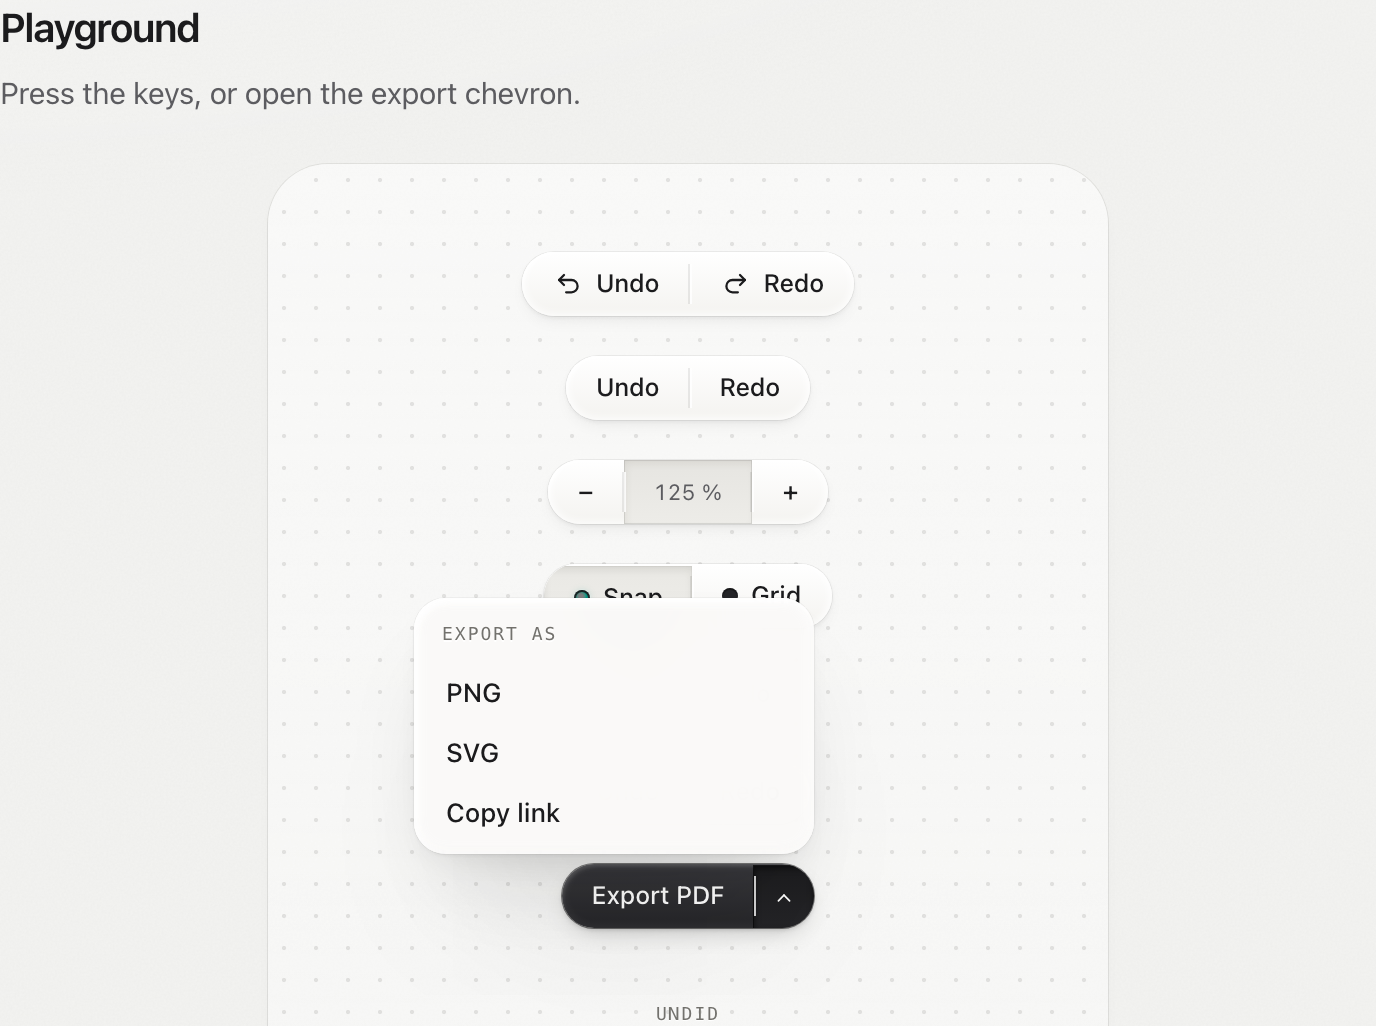
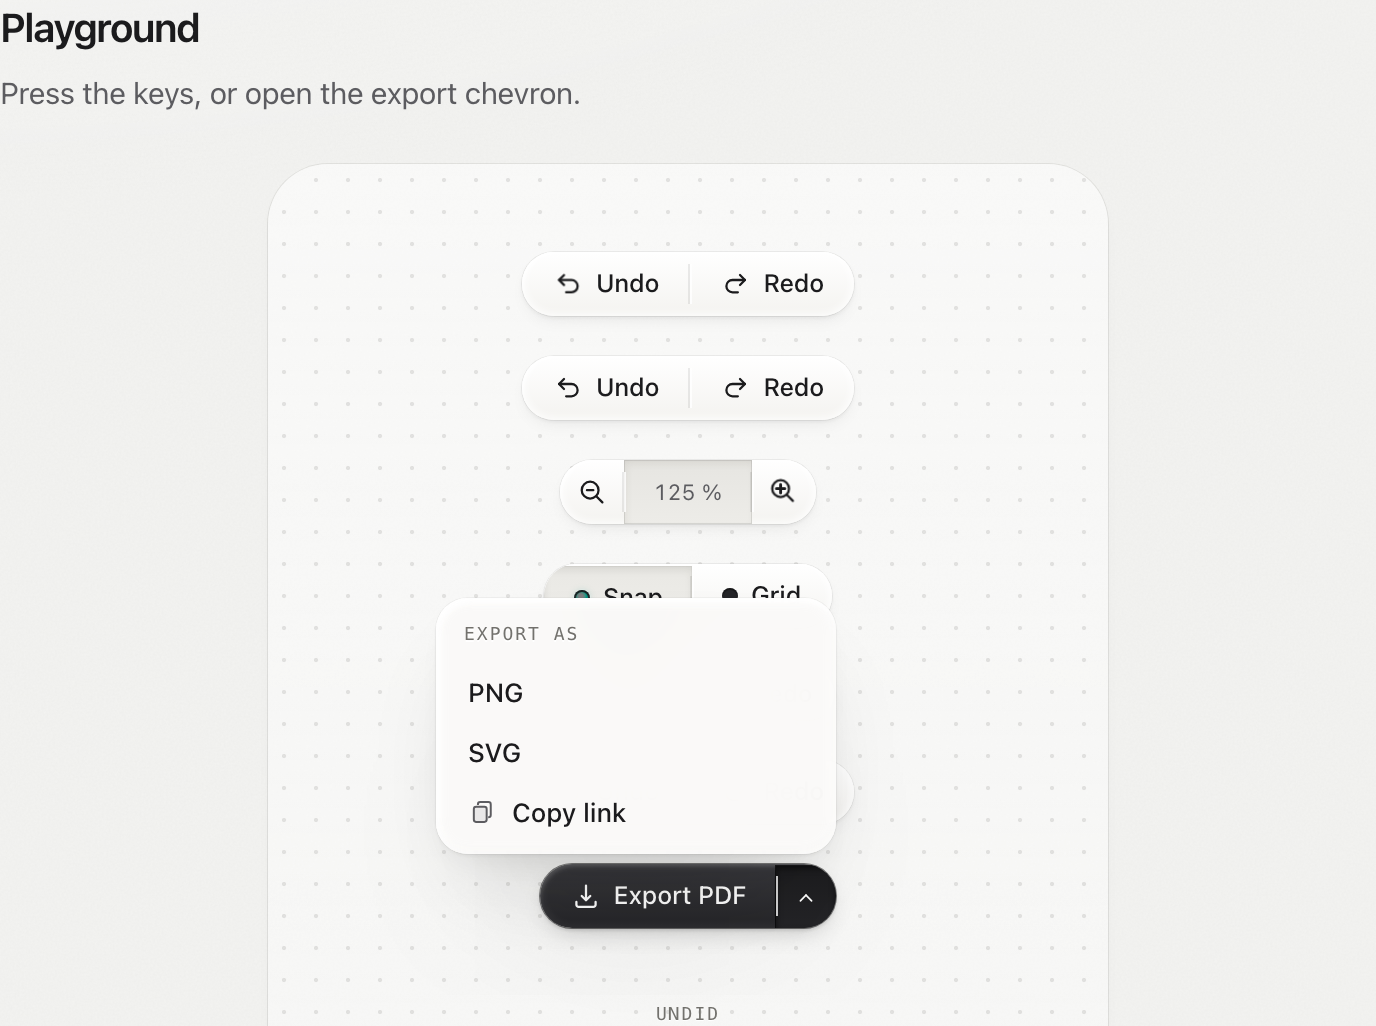
feat(button-group): use canonical action glyphs in group specimens

diff --git a/apps/docs/src/pages/components/ButtonGroup.tsx b/apps/docs/src/pages/components/ButtonGroup.tsx
@@ -26,19 +26,19 @@ function Examples({ onDid }: { onDid: (s: string) => void }) {
         <Button icon={<Icon name="undo" />} onClick={() => onDid('Undid')}>Undo</Button>
         <Button icon={<Icon name="redo" />} onClick={() => onDid('Redid')}>Redo</Button>
       </ButtonGroup>
-      <ButtonGroup aria-label="History rocker" rocker><Button onClick={() => onDid('Undid rocker')}>Undo</Button><Button onClick={() => onDid('Redid rocker')}>Redo</Button></ButtonGroup>
+      <ButtonGroup aria-label="History rocker" rocker><Button icon={<Icon name="undo" />} onClick={() => onDid('Undid rocker')}>Undo</Button><Button icon={<Icon name="redo" />} onClick={() => onDid('Redid rocker')}>Redo</Button></ButtonGroup>
       <ButtonGroup aria-label="Zoom">
-        <Button disabled={zoom === 25} onClick={() => setZoom((z) => Math.max(25, z - 25))} aria-label="Zoom out">−</Button>
+        <Button iconOnly icon={<Icon name="zoom-out" />} disabled={zoom === 25} onClick={() => setZoom((z) => Math.max(25, z - 25))} aria-label="Zoom out" />
         <ButtonGroupReadout aria-label="Zoom level" value={`${zoom} %`} />
-        <Button disabled={zoom === 400} onClick={() => setZoom((z) => Math.min(400, z + 25))} aria-label="Zoom in">+</Button>
+        <Button iconOnly icon={<Icon name="zoom-in" />} disabled={zoom === 400} onClick={() => setZoom((z) => Math.min(400, z + 25))} aria-label="Zoom in" />
       </ButtonGroup>
       <ToggleGroup joined multiple value={grid} onValueChange={setGrid} aria-label="Canvas aids">
         <Toggle value="snap">Snap</Toggle><Toggle value="grid">Grid</Toggle>
       </ToggleGroup>
       <ButtonGroup aria-label="Compact history" size="compact">
-        <Button onClick={() => onDid('Undid compact')}>Undo</Button><Button disabled>Redo</Button>
+        <Button icon={<Icon name="undo" />} onClick={() => onDid('Undid compact')}>Undo</Button><Button icon={<Icon name="redo" />} disabled>Redo</Button>
       </ButtonGroup>
-      <ButtonGroup aria-label="Unavailable history" disabled><Button>Undo</Button><Button>Redo</Button></ButtonGroup>
+      <ButtonGroup aria-label="Unavailable history" disabled><Button icon={<Icon name="undo" />}>Undo</Button><Button icon={<Icon name="redo" />}>Redo</Button></ButtonGroup>
       <SplitButton
         menuLabel="More export options"
         heading="EXPORT AS"
@@ -46,11 +46,11 @@ function Examples({ onDid }: { onDid: (s: string) => void }) {
           <>
             <MenuItem onSelect={() => onDid('Exported PNG')}>PNG</MenuItem>
             <MenuItem onSelect={() => onDid('Exported SVG')}>SVG</MenuItem>
-            <MenuItem onSelect={() => onDid('Copied the link')}>Copy link</MenuItem>
+            <MenuItem icon={<Icon name="copy" size={14} />} onSelect={() => { void navigator.clipboard.writeText(window.location.href).then(() => onDid('Copied the link'), () => onDid('Copy failed')); }}>Copy link</MenuItem>
           </>
         )}
       >
-        <Button cap="primary" onClick={() => onDid('Exported PDF')}>Export PDF</Button>
+        <Button cap="primary" icon={<Icon name="download" />} onClick={() => onDid('Exported PDF')}>Export PDF</Button>
       </SplitButton>
     </div>
   );
@@ -84,7 +84,7 @@ export default function ButtonGroupPage() {
     <MenuItem onSelect={exportSvg}>SVG</MenuItem>
   </>
 }>
-  <Button cap="primary" onClick={exportPdf}>Export PDF</Button>
+  <Button cap="primary" icon={<Icon name="download" />} onClick={exportPdf}>Export PDF</Button>
 </SplitButton>`}
       sources={[
         { id: 'react', label: 'React', code: reactSource },

diff --git a/e2e/button-group.spec.ts b/e2e/button-group.spec.ts
@@ -75,6 +75,8 @@ for (const colorway of COLORWAYS) {
     expect(await readout.evaluate((el) => el.tagName)).toBe('OUTPUT');
     await zoom.getByRole('button', { name: 'Zoom out' }).click();
     await expect(readout).toContainText('75 %');
+    await expect(zoom.getByRole('button', { name: 'Zoom out' }).locator('svg.mu-ic-zoom-out')).toHaveCount(1);
+    await expect(zoom.getByRole('button', { name: 'Zoom in' }).locator('svg.mu-ic-zoom-in')).toHaveCount(1);
     await zoom.getByRole('button', { name: 'Zoom out' }).focus();
     await page.keyboard.press('Tab');
     await expect(zoom.getByRole('button', { name: 'Zoom in' })).toBeFocused();
@@ -143,4 +145,16 @@ test('split glyph cancels into its orientation when the scope reduces during ope
   await expect(key).toBeFocused();
   await expect.poll(() => direction(key)).toBe('down');
   await play(page).screenshot({ path: capture('button-group-reduced') });
+});
+
+test('the export menu copies its actual page link before acknowledging it', async ({ page }) => {
+  await page.context().grantPermissions(['clipboard-read', 'clipboard-write']);
+  await open(page, '/components/button-group', 'bone');
+  const expected = page.url();
+  await page.locator('section', { hasText: 'Playground' }).first().getByRole('button', { name: 'More export options' }).click();
+  const copy = page.getByRole('menuitem', { name: 'Copy link' });
+  await expect(copy.locator('svg.mu-ic-copy')).toHaveCount(1);
+  await copy.click();
+  await expect(page.getByText('Copied the link', { exact: false })).toBeVisible();
+  expect(await page.evaluate(() => navigator.clipboard.readText())).toBe(expected);
 });

diff --git a/swift/Sources/MetalUI/Components/MetalButtonGroup.swift b/swift/Sources/MetalUI/Components/MetalButtonGroup.swift
@@ -24,6 +24,8 @@ extension EnvironmentValues {
 }
 
 /// Related operations cut from one cap. Use MetalButton children, or the group's latching key.
+/// Related actions carry their canonical glyphs, e.g. MetalButton("Export PDF", icon: .download).
+/// Use separately named .zoomIn/.zoomOut glyph-only keys for a bounded zoom readout.
 public struct MetalButtonGroup<Content: View>: View {
     private let label: String
     private let content: Content

diff --git a/packages/metalui/public/AI.md b/packages/metalui/public/AI.md
@@ -746,9 +746,9 @@ SplitButton infers cap and size from its main Button. Both halves inherit one ma
 
 ```tsx
 <ButtonGroup aria-label="Zoom">
-  <Button aria-label="Zoom out" onClick={out}>−</Button>
+  <Button iconOnly icon={<Icon name="zoom-out" />} aria-label="Zoom out" onClick={out} />
   <ButtonGroupReadout aria-label="Zoom level" value={`${zoom} %`} />
-  <Button aria-label="Zoom in" onClick={in}>+</Button>
+  <Button iconOnly icon={<Icon name="zoom-in" />} aria-label="Zoom in" onClick={in} />
 </ButtonGroup>
 ```
 
@@ -759,11 +759,13 @@ MetalButtonGroup("History", rocker: true) {
 }
 MetalSplitButton("More export options", cap: .primary,
     menu: [MetalMenuItem("PNG") { exportPNG() }, MetalMenuItem("SVG") { exportSVG() }]) {
-    MetalButton("Export PDF") { exportPDF() }
+    MetalButton("Export PDF", icon: .download) { exportPDF() }
 }
 ```
 
 Swift resolves actual key bounds once layout settles to place fixed seams. The shared MetalButtonStyle handles segment presses and group latches; disabled and focus remain native controls. Swift SplitButton uses the existing MetalMenuPanel in a native popover, tracks the presentation binding, holds its key until the menu closes and restores focus when the panel closes. The host owns the result and request state of its main action.
+
+Every repeated action carries the same glyph in regular, compact, rocker and disabled groups: Undo `undo`, Redo `redo`, Export `download`, Copy link `copy`. Zoom uses separately named `zoom-out` and `zoom-in` glyph keys with `iconOnly`, and disables the appropriate end of its range rather than changing one key's meaning at the limit. Swift uses `MetalButton("Zoom out", icon: .zoomOut, iconOnly: true)` and the corresponding `.zoomIn` key. Format choices such as PNG/SVG remain plain words.
 
 ---
 

diff --git a/packages/metalui/public/r/button-group.md b/packages/metalui/public/r/button-group.md
@@ -25,9 +25,9 @@ SplitButton infers cap and size from its main Button. Both halves inherit one ma
 
 ```tsx
 <ButtonGroup aria-label="Zoom">
-  <Button aria-label="Zoom out" onClick={out}>−</Button>
+  <Button iconOnly icon={<Icon name="zoom-out" />} aria-label="Zoom out" onClick={out} />
   <ButtonGroupReadout aria-label="Zoom level" value={`${zoom} %`} />
-  <Button aria-label="Zoom in" onClick={in}>+</Button>
+  <Button iconOnly icon={<Icon name="zoom-in" />} aria-label="Zoom in" onClick={in} />
 </ButtonGroup>
 ```
 
@@ -38,8 +38,10 @@ MetalButtonGroup("History", rocker: true) {
 }
 MetalSplitButton("More export options", cap: .primary,
     menu: [MetalMenuItem("PNG") { exportPNG() }, MetalMenuItem("SVG") { exportSVG() }]) {
-    MetalButton("Export PDF") { exportPDF() }
+    MetalButton("Export PDF", icon: .download) { exportPDF() }
 }
 ```
 
 Swift resolves actual key bounds once layout settles to place fixed seams. The shared MetalButtonStyle handles segment presses and group latches; disabled and focus remain native controls. Swift SplitButton uses the existing MetalMenuPanel in a native popover, tracks the presentation binding, holds its key until the menu closes and restores focus when the panel closes. The host owns the result and request state of its main action.
+
+Every repeated action carries the same glyph in regular, compact, rocker and disabled groups: Undo `undo`, Redo `redo`, Export `download`, Copy link `copy`. Zoom uses separately named `zoom-out` and `zoom-in` glyph keys with `iconOnly`, and disables the appropriate end of its range rather than changing one key's meaning at the limit. Swift uses `MetalButton("Zoom out", icon: .zoomOut, iconOnly: true)` and the corresponding `.zoomIn` key. Format choices such as PNG/SVG remain plain words.

diff --git a/packages/metalui/src/components/button-group/button-group.agent.md b/packages/metalui/src/components/button-group/button-group.agent.md
@@ -25,9 +25,9 @@ SplitButton infers cap and size from its main Button. Both halves inherit one ma
 
 ```tsx
 <ButtonGroup aria-label="Zoom">
-  <Button aria-label="Zoom out" onClick={out}>−</Button>
+  <Button iconOnly icon={<Icon name="zoom-out" />} aria-label="Zoom out" onClick={out} />
   <ButtonGroupReadout aria-label="Zoom level" value={`${zoom} %`} />
-  <Button aria-label="Zoom in" onClick={in}>+</Button>
+  <Button iconOnly icon={<Icon name="zoom-in" />} aria-label="Zoom in" onClick={in} />
 </ButtonGroup>
 ```
 
@@ -38,8 +38,10 @@ MetalButtonGroup("History", rocker: true) {
 }
 MetalSplitButton("More export options", cap: .primary,
     menu: [MetalMenuItem("PNG") { exportPNG() }, MetalMenuItem("SVG") { exportSVG() }]) {
-    MetalButton("Export PDF") { exportPDF() }
+    MetalButton("Export PDF", icon: .download) { exportPDF() }
 }
 ```
 
 Swift resolves actual key bounds once layout settles to place fixed seams. The shared MetalButtonStyle handles segment presses and group latches; disabled and focus remain native controls. Swift SplitButton uses the existing MetalMenuPanel in a native popover, tracks the presentation binding, holds its key until the menu closes and restores focus when the panel closes. The host owns the result and request state of its main action.
+
+Every repeated action carries the same glyph in regular, compact, rocker and disabled groups: Undo `undo`, Redo `redo`, Export `download`, Copy link `copy`. Zoom uses separately named `zoom-out` and `zoom-in` glyph keys with `iconOnly`, and disables the appropriate end of its range rather than changing one key's meaning at the limit. Swift uses `MetalButton("Zoom out", icon: .zoomOut, iconOnly: true)` and the corresponding `.zoomIn` key. Format choices such as PNG/SVG remain plain words.
